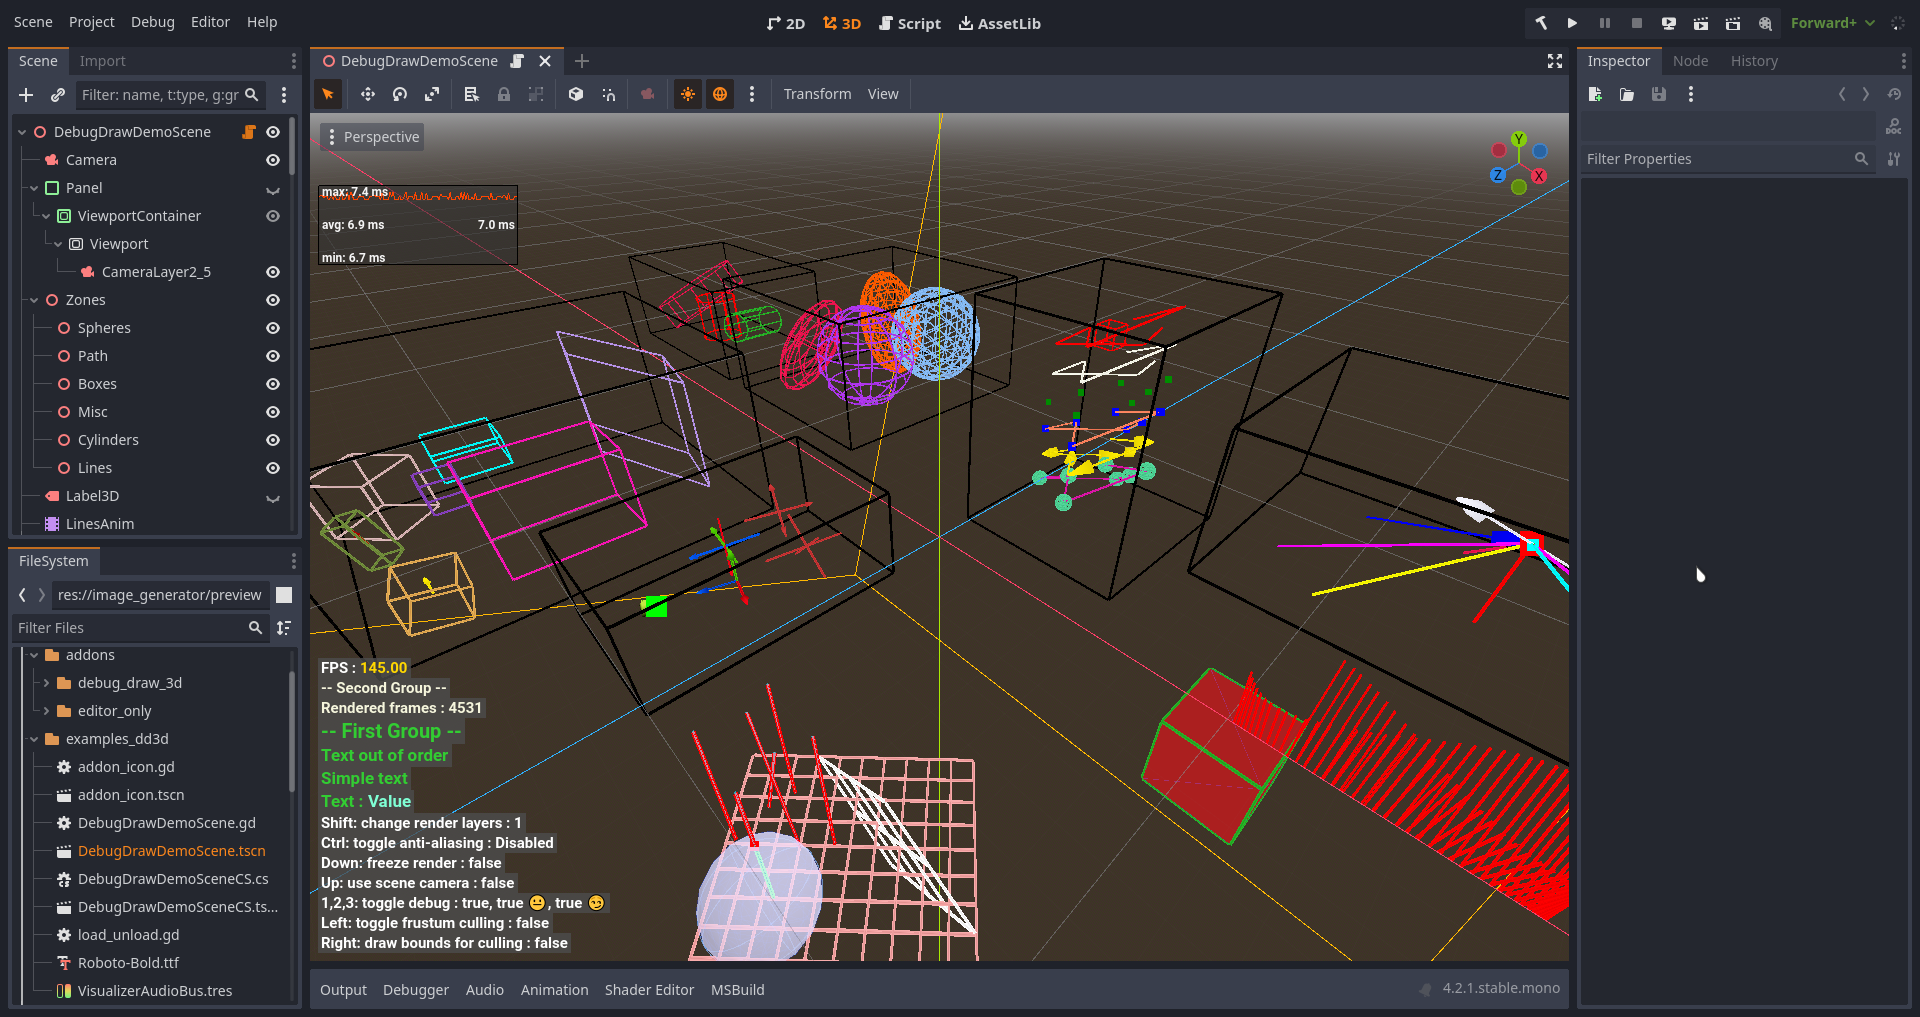
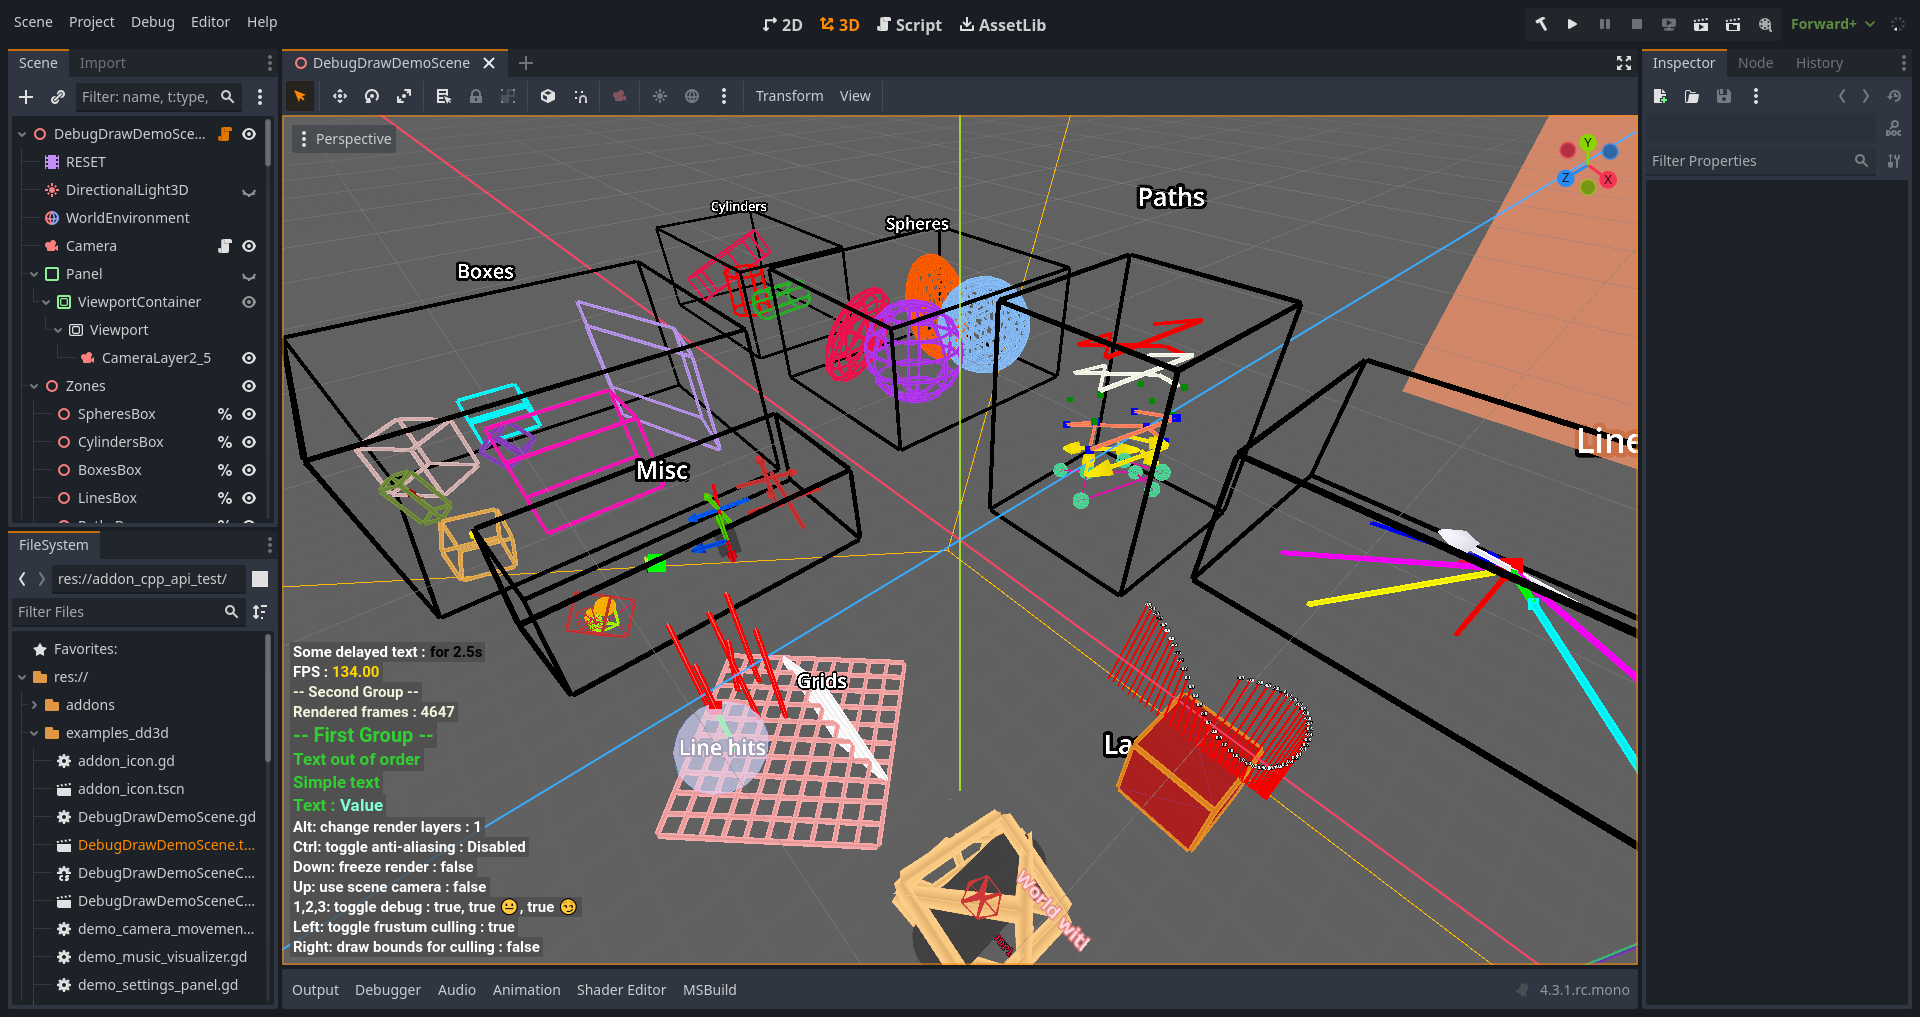
Updated docs and demo

diff --git a/examples_dd3d/DebugDrawDemoSceneCS.cs b/examples_dd3d/DebugDrawDemoSceneCS.cs
@@ -369,6 +369,9 @@ public partial class DebugDrawDemoSceneCS : Node3D
             DebugDraw3D.DrawBoxXf(dPostProcess.GlobalTransform, Colors.SeaGreen);
         }
 
+        // Local transform
+        _draw_local_xf_box(pLocalTransformRecursiveOrigin.GlobalTransform, 0.05f, 10);
+
         // 2D
         DebugDraw2D.Config.TextDefaultSize = text_groups_default_font_size;
         DebugDraw2D.Config.TextBlockOffset = text_groups_offset;
@@ -525,6 +528,56 @@ public partial class DebugDrawDemoSceneCS : Node3D
             DebugDraw3D.DrawText(pos, title, font_size);
         }
     }
+
+    const float _local_mul = 0.45f;
+    static readonly Vector3 _local_mul_vec = new(_local_mul, _local_mul, _local_mul);
+    Vector3[] __local_lines_cross_recursive = [new Vector3(-0.5f, -0.5f, -0.5f), new Vector3(0.5f, -0.5f, 0.5f), new Vector3(-0.5f, -0.5f, 0.5f), new Vector3(0.5f, -0.5f, -0.5f)];
+    Transform3D __local_box_recursive = Transform3D.Identity.RotatedLocal(Vector3.Up, Mathf.DegToRad(30)).Translated(new Vector3(-0.25f, -0.55f, 0.25f)).Scaled(_local_mul_vec);
+    Transform3D __local_sphere_recursive = Transform3D.Identity.Translated(new Vector3(0.5f, 0.55f, -0.5f)).Scaled(_local_mul_vec);
+
+    void _draw_local_xf_box(Transform3D xf, float thickness, int max_depth, int depth = 0)
+    {
+        if (depth >= max_depth)
+            return;
+
+        using var _s1 = DebugDraw3D.NewScopedConfig().SetThickness(thickness).SetTransform(xf);
+
+        // a box with a small offset
+        DebugDraw3D.DrawBoxXf(new Transform3D(Basis.Identity, new Vector3(0, 0.001f, 0)), Colors.Brown);
+        // a box and a stand for the next depth
+        DebugDraw3D.DrawBoxXf(__local_box_recursive, Colors.Chartreuse);
+        // just a sphere and lines
+        DebugDraw3D.DrawSphereXf(__local_sphere_recursive, Colors.DarkOrange);
+
+        _s1.SetThickness(0);
+
+        DebugDraw3D.DrawLines(__local_lines_cross_recursive, Colors.Crimson);
+
+        // A simple animation generator with descent into the depth of the scene
+#if false
+        {
+            Animation anim = pRecursiveTransformTest.GetAnimation("recursive");
+            // clear keys
+            if (depth == 0)
+                for (var i = 0; i < anim.TrackGetKeyCount(0); i++)
+                {
+                    anim.TrackRemoveKey(0, 0);
+                    anim.TrackRemoveKey(1, 0);
+                }
+
+            var time = depth * 2;
+            var s_xf = xf * __local_sphere_recursive;
+            var next_s_xf = (xf * __local_box_recursive.Translated(__local_box_recursive.Basis.Y)) * __local_sphere_recursive;
+            var get_sphere_pos = (Transform3D l_xf) => l_xf.Origin + (l_xf).Basis.Y;
+
+            anim.PositionTrackInsertKey(0, time, get_sphere_pos(s_xf));
+            anim.RotationTrackInsertKey(1, time, new Transform3D(Basis.Identity, get_sphere_pos(s_xf)).LookingAt(get_sphere_pos(next_s_xf), xf.Basis.Y).Basis.GetRotationQuaternion());
+        }
+#endif
+
+        _draw_local_xf_box(xf * __local_box_recursive.Translated(__local_box_recursive.Basis.Y), thickness * _local_mul, max_depth, depth + 1);
+    }
+
 
     void _draw_other_world()
     {
@@ -712,6 +765,8 @@ public partial class DebugDrawDemoSceneCS : Node3D
     Node3D dMisc_GizmoTransform;
     Node3D dMisc_GizmoNormal;
     Node3D dMisc_GizmoOneColor;
+    Node3D pLocalTransformRecursiveOrigin;
+    AnimationPlayer pRecursiveTransformTest;
 
     Node3D dGrids_Grid;
     Node3D dGrids_Grid_Subdivision;
@@ -782,6 +837,8 @@ public partial class DebugDrawDemoSceneCS : Node3D
         dMisc_GizmoTransform = GetNode<Node3D>("Misc/GizmoTransform");
         dMisc_GizmoNormal = GetNode<Node3D>("Misc/GizmoNormal");
         dMisc_GizmoOneColor = GetNode<Node3D>("Misc/GizmoOneColor");
+        pLocalTransformRecursiveOrigin = GetNode<Node3D>("%LocalTransformRecursiveOrigin");
+        pRecursiveTransformTest = GetNode<AnimationPlayer>("%RecursiveTransformTest");
 
         dGrids_Grid = GetNode<Node3D>("Grids/Grid");
         dGrids_Grid_Subdivision = GetNode<Node3D>("Grids/Grid/Subdivision");

diff --git a/docs/Introduction.md b/docs/Introduction.md
@@ -28,6 +28,7 @@ This is an add-on for debug drawing in 3D and for some 2D overlays, which is wri
 * Points
 * Position 3D (3 crossing axes)
 * Sphere
+* 3D Text
 
 2D:
 

diff --git a/addons/debug_draw_3d/README.md b/addons/debug_draw_3d/README.md
@@ -38,6 +38,7 @@ Your support adds motivation to develop my public projects.
 * Points
 * Position 3D (3 crossing axes)
 * Sphere
+* 3D Text
 
 2D:
 
